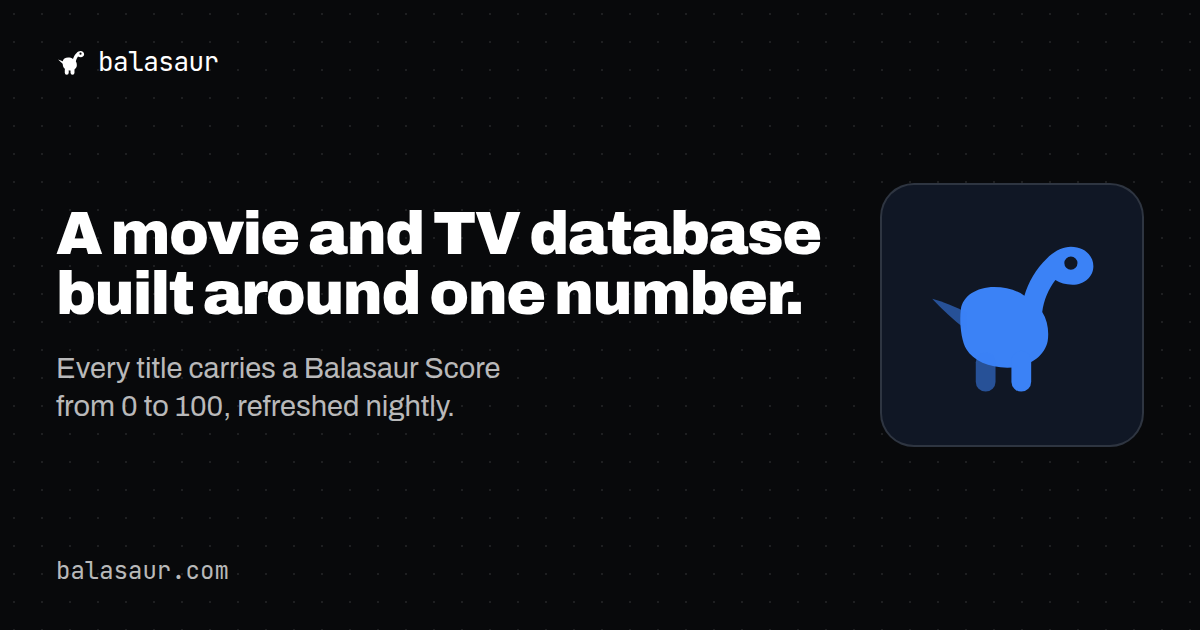
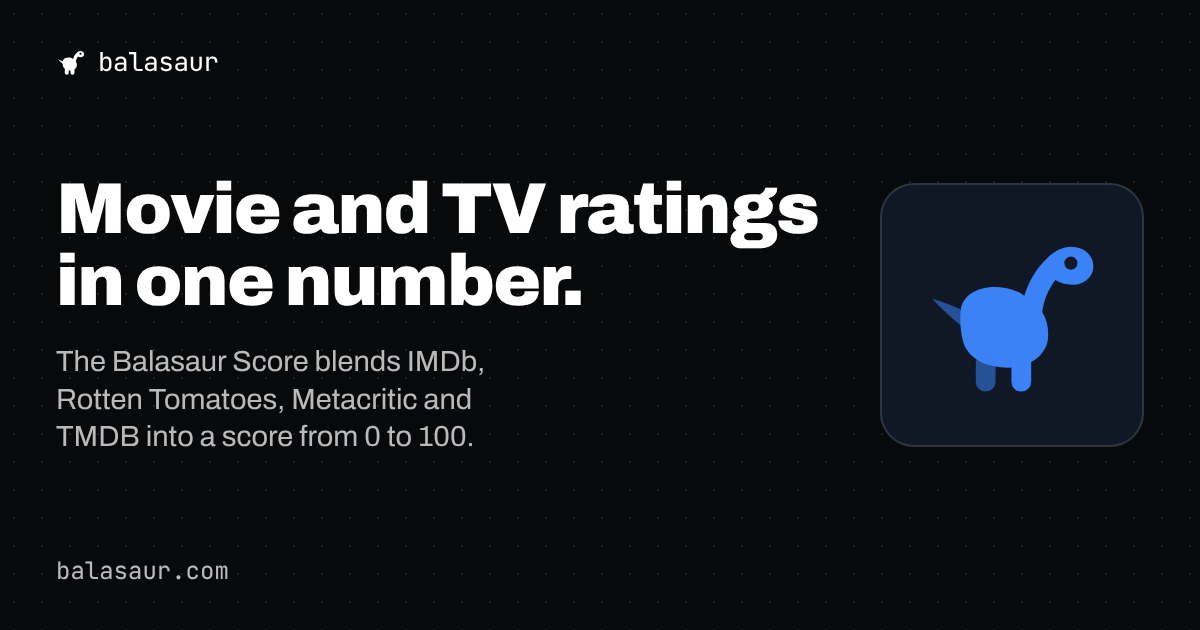
Site tagline and proof line: the ratings are the subject, not the site
The footer, the signed-out home heading, the share card and every page
without its own description used "A movie and TV database built around one
number" and "Every title carries a Balasaur Score from 0 to 100, refreshed
nightly." The first has the site as its subject; the second is false (about
18,000 titles have too few ratings for a score) and ends on how often a job
runs. Now "Movie and TV ratings in one number" and "The Balasaur Score
blends IMDb, Rotten Tomatoes, Metacritic and TMDB into a score from 0 to
100." public/og-default.png re-rendered from them by scripts/brand-assets.ts.

Claude-Session: https://claude.ai/code/session_01EdzEkANNSUJ6bcA9JFBvRh

diff --git a/src/lib/seo.ts b/src/lib/seo.ts
@@ -31,12 +31,22 @@ export const SITE_NAME = "Balasaur";
 // default description of the whole catalog and is a sentence any of a dozen
 // competitors could print, which is the thin-derivative signal that gets a
 // database site demoted.
-export const SITE_TAGLINE = "A movie and TV database built around one number";
+//
+// Its subject is the ratings, not the site. "A movie and TV database built
+// around one number" described the site, which Principle 4 rules out.
+// LandingHero marks the words "one number" on a gold swatch; keep them or the
+// mark quietly disappears.
+export const SITE_TAGLINE = "Movie and TV ratings in one number";
 // The second beat, wherever the tagline gets a line of backing: what the number
-// is and how current it is. Lives here rather than in each surface so the hero
-// and the share card cannot drift apart. scripts/brand-assets.ts reads both of
-// these straight out of this file when it renders public/og-default.png.
-export const SITE_PROOF = "Every title carries a Balasaur Score from 0 to 100, refreshed nightly.";
+// is. Lives here rather than in each surface so the hero and the share card
+// cannot drift apart. scripts/brand-assets.ts reads both of these straight out
+// of this file when it renders public/og-default.png.
+//
+// The previous line, "Every title carries a Balasaur Score from 0 to 100,
+// refreshed nightly", was false (about 18,000 titles have too few ratings for
+// one) and spent its last words on how often a job runs.
+export const SITE_PROOF =
+  "The Balasaur Score blends IMDb, Rotten Tomatoes, Metacritic and TMDB into a score from 0 to 100.";
 // The site-wide meta description: the tagline and its backing, nothing else.
 // Any page without its own composed description falls back to this.
 export const SITE_DESCRIPTION = `${SITE_TAGLINE}. ${SITE_PROOF}`;
